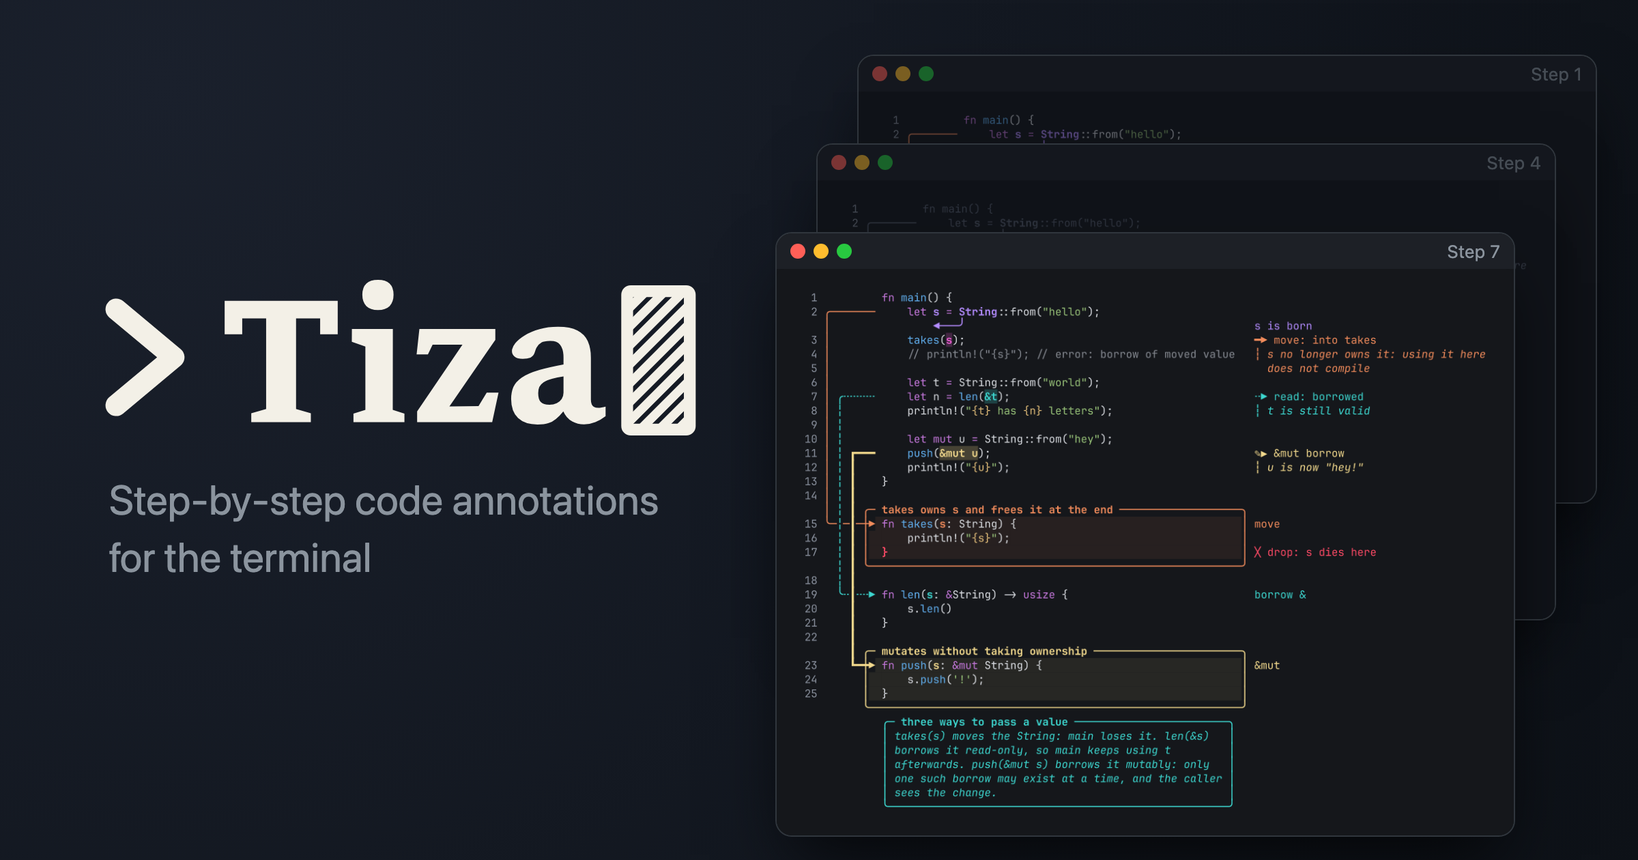
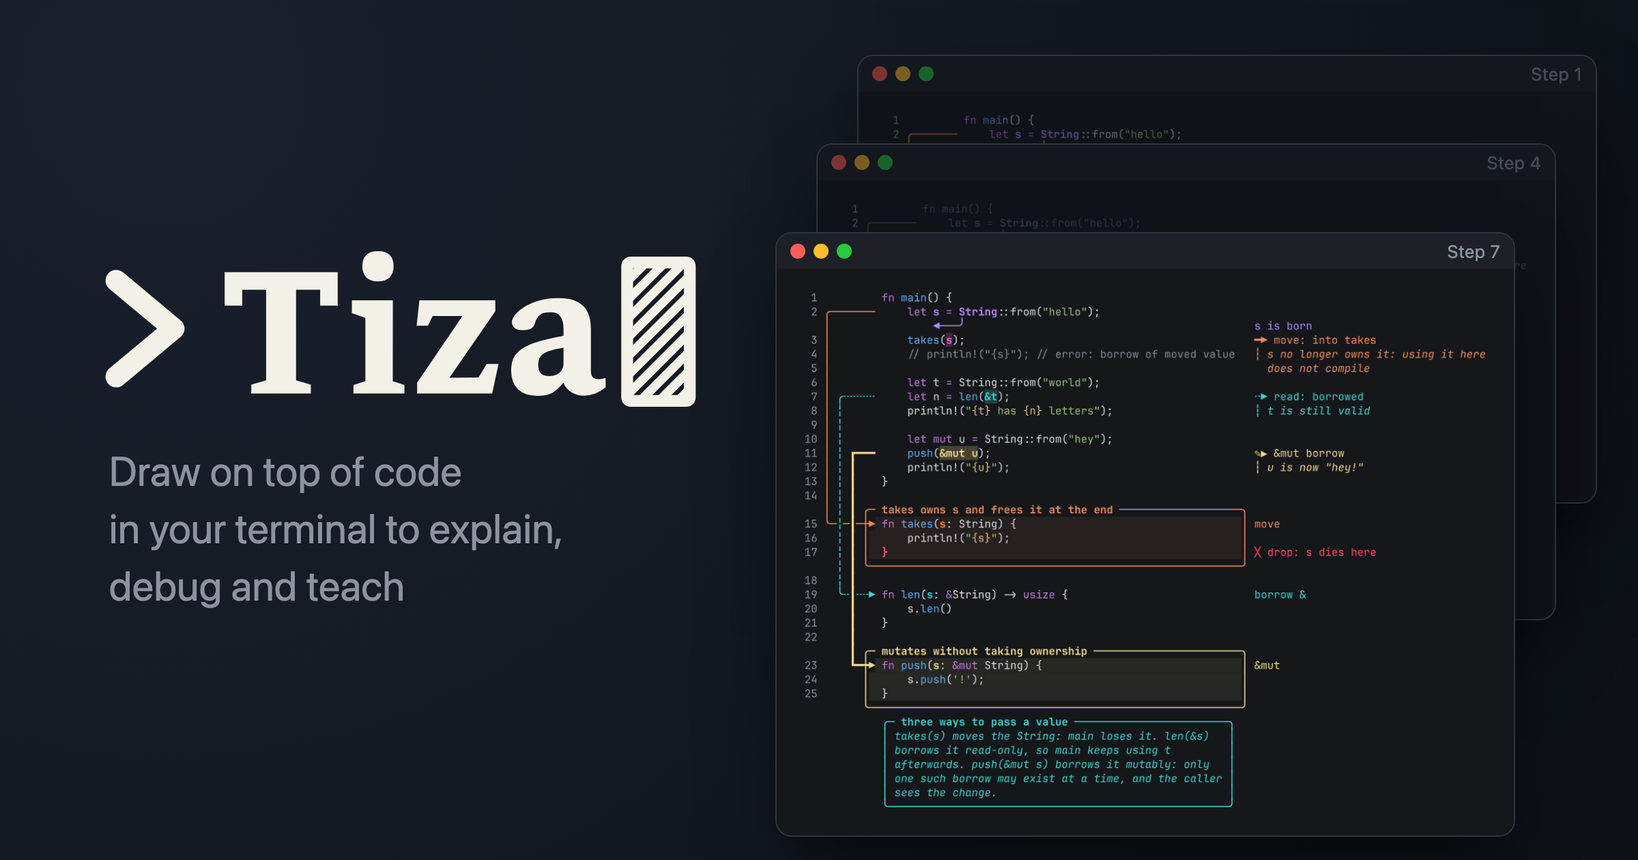
Write a short README and a new hero sentence (t-250)
The README now answers what Tiza is, who it is for, how to install it
and the first command on its first screen. It has 139 lines, 694 words
of prose and 8 H2 sections. The quick start needs no clone: the reader
copies a small Rust file, types four `:` commands and exports a GIF.
The block was run as written in a pty with tiza 0.1.0: two steps,
three annotations on the intended text, a clean exit and a 3-frame
GIF. "Where to go next" links each page by reader intent, with absolute
URLs, so the links also work in the release archive. Agents, privacy,
feedback and the license keep a short section each. The license text
is unchanged.

The hero takes the positioning sentence. scripts/readme-images.sh
regenerated it; the GIF, the PNGs and the text block came out
byte-identical. The alt text of the README and of the crate README says
the same sentence. The crate README links the new reference pages.

Editor fixes on the new pages: clearer H1s for the recording checks
and the exports, a correct intro for the agent setup page, and the
install-from-main command on the install page. The writing guide now
points to the full test rule in AGENTS.md.

The release scripts name docs/contributing/releasing.md instead of the
README in one message and one comment.

QA tests: the owner's rule drops three more prose pins: the old hero
title in hero.html, the Ctrl-C row of the keys page (the test keeps the
real help in a pty) and the README check for the hero on line 1 and no
[…]

Changed region(s): [[0.0625, 0.2786, 0.4375, 0.5262], [0.0625, 0.5262, 0.4062, 0.7119], [0.1562, 0.4333, 0.1875, 0.4952]]

diff --git a/docs/img/src/hero.html b/docs/img/src/hero.html
@@ -86,7 +86,7 @@
 <body>
   <div class="brand">
     <svg class="logo" viewBox="276 106 656 182" role="img" aria-label="Tiza"><path d="M292.6,144.2 L355.5,196.6 L292.6,249.1" fill="none" stroke="#f3f0e7" stroke-width="23.4" stroke-linecap="round" stroke-linejoin="round"/><path d="M534.5435845000001 134.8775V171.4525H515.3535845V154.0675H489.03858450000007V253.0575L505.18858450000005 257.8075V267.4975H440.11358450000006V257.8075L456.35858450000006 253.0575V154.0675H430.23358450000006V171.4525H411.04358450000007V134.8775ZM578.5285845000001 144.9475Q570.1685845000001 144.9475 565.7985845000001 140.6725Q561.4285845 136.3025 561.4285845 128.3225Q561.4285845 120.3425 565.7985845000001 116.1625Q570.1685845000001 112.07749999999999 578.5285845000001 112.07749999999999Q586.8885845000001 112.07749999999999 591.2585845000001 116.1625Q595.5335845000001 120.3425 595.5335845000001 128.3225Q595.5335845000001 136.3025 591.2585845000001 140.6725Q586.8885845000001 144.9475 578.5285845000001 144.9475ZM594.7735845000001 165.7525 594.6785845 254.1025 607.4085845000001 258.1875V267.4975H551.7385845000001V258.1875L564.7535845000001 254.1025V184.9425L549.9335845 179.7175L550.0285845000001 165.7525ZM621.2785845000001 267.4975V255.6225L670.7735845000001 182.85250000000002H638.1885845L633.0585845 193.4925H620.7085845L623.7485845000001 165.7525H631.1585845000001H637.3335845H706.6835845V177.5325L656.5235845000001 250.3025L688.3485845 250.0175L697.2785845000001 235.1975H710.1985845L703.2635845000001 267.4975ZM781.1635845000001 217.4325Q774.1335845000001 218.5725 769.1935845000002 219.9025Q762.6385845000001 221.7075 759.2660845 223.94Q755.8935845000001 226.1725 754.7060845000001 229.0225Q753.5185845000001 231.8725 753.5185845000001 235.6725Q753.5185845000001 242.4175 756.3685845000001 245.45749999999998Q759.2185845000001 248.4975 765.7735845000001 248.4975Q770.2385845000001 248.4975 773.7535845000001 246.835Q777.2685845000001 245.1725 779.2160845000001 242.1325Q781.1635845000001 239.0925 781.1635845000001 235.1975ZM780.9735845000001 255.7175Q772.7085845000001 266.0725 765.0135845000001 268.4475Q759.9785845000001 270.0625 752.8535845000001 270.0625Q739.1735845000001 270.0625 731.5735845000002 263.0325Q723.9735845000001 256.0025 723.9735845000001 242.1325Q723.9735845000001 234.8175 726.3960845000001 229.1175Q728.8185845000002 223.41750000000002 735.5160845000001 218.76250000000002Q742.2135845000001 214.10750000000002 754.8485845000001 210.4025Q765.3935845000001 207.3625 781.1635845000001 204.5125V196.8175Q781.1635845000001 187.4125 777.3635845000001 182.7575Q773.8485845000001 178.48250000000002 766.1535845000001 178.76749999999998Q759.7885845000001 179.0525 757.4135845000001 180.2875Q753.8035845000002 182.2825 751.6185845000001 186.1775Q751.0485845000001 187.2225 749.6235845000001 191.6875Q748.3885845000001 195.4875 745.0635845000002 196.91250000000002Q741.8335845000001 198.2425 736.6085845000001 198.2425Q730.7185845000001 198.2425 727.7735845000002 195.8675Q724.8285845000001 193.4925 724.8285845000001 189.7875Q724.8285845000001 185.7025 728.5335845000002 181.14249999999998Q732.2385845000001 176.58249999999998 739.0310845000001 172.4975Q745.8235845000002 168.4125 754.9910845000002 165.8475Q764.1585845000001 163.2825 775.1785845000002 163.2825Q788.5735845000002 163.2825 796.4110845000001 167.32Q804.2485845000001 171.35750000000002 807.6685845000002 178.91000000000003Q811.0885845000001 186.4625 811.0885845000001 196.91250000000002V242.8925Q811.0885845000001 246.2175 811.9910845000002 248.1175Q812.8935845000001 250.0175 814.6035845000001 250.92000000000002Q816.3135845000002 251.8225 819.0685845000002 251.8225Q820.7785845000001 251.8225 822.7735845000001 251.4425Q824.7685845000001 251.0625 827.1435845000001 250.3975V260.9425Q821.9185845000001 265.0275 815.8385845 267.45Q809.7585845000001 269.8725 803.5835845000001 269.8725Q796.4585845000001 269.8725 790.7585845000001 266.7375Q784.2035845000001 263.2225 780.9735845000001 255.7175Z" fill="#f3f0e7"/><clipPath id="clD"><rect x="850.7" y="124.4" width="68.4" height="151.2"/></clipPath><g clip-path="url(#clD)" stroke="#f3f0e7" stroke-width="9.7" stroke-linecap="round"><line x1="699.5" y1="275.6" x2="850.7" y2="124.4"/><line x1="720.2" y1="275.6" x2="871.4" y2="124.4"/><line x1="740.9" y1="275.6" x2="892.0" y2="124.4"/><line x1="761.5" y1="275.6" x2="912.7" y2="124.4"/><line x1="782.2" y1="275.6" x2="933.4" y2="124.4"/><line x1="802.9" y1="275.6" x2="954.1" y2="124.4"/><line x1="823.5" y1="275.6" x2="974.7" y2="124.4"/><line x1="844.2" y1="275.6" x2="995.4" y2="124.4"/><line x1="864.9" y1="275.6" x2="1016.1" y2="124.4"/><line x1="885.6" y1="275.6" x2="1036.8" y2="124.4"/><line x1="906.2" y1="275.6" x2="1057.4" y2="124.4"/><line x1="926.9" y1="275.6" x2="1078.1" y2="124.4"/><line x1="947.6" y1="275.6" x2="1098.8" y2="124.4"/><line x1="968.2" y1="275.6" x2="1119.4" y2="124.4"/><line x1="988.9" y1="275.6" x2="1140.1" y2="124.4"/><line x1="1009.6" y1="275.6" x2="1160.8" y2="124.4"/><line x1="1030.3" y1="275.6" x2="1181.5" y2="124.4"/><line x1="1050.9" y1="275.6" x2="1202.1" y2="124.4"/></g><rect x="850.7" y="124.4" width="68.4" height="151.2" rx="3.9" fill="none" stroke="#f3f0e7" stroke-width="12.9"/></svg>
-    <p>Step-by-step code annotations<br>for the terminal</p>
+    <p>Draw on top of code<br>in your terminal to explain,<br>debug and teach</p>
   </div>
   <div class="win z1 dim">
     <div class="bar"><span class="dot r"></span><span class="dot y"></span><span class="dot g"></span><span class="label">Step 1</span></div>

diff --git a/qa/tests/t-152.rs b/qa/tests/t-152.rs
@@ -1311,19 +1311,7 @@ const BRAND: [&str; 5] = [
 ];
 
 #[test]
-fn brand_the_readme_shows_the_logo_and_the_files_stay_out_of_the_packages() {
-    // The README starts with the hero, which carries the logo: a separate
-    // logo above it showed the mark twice (Luis, 2026-10-24).
-    let readme = read("README.md");
-    let first = readme.lines().next().unwrap();
-    assert!(
-        first.starts_with("![Tiza: ") && first.ends_with("](docs/img/hero.png)"),
-        "{first}"
-    );
-    assert!(
-        !readme.contains("docs/brand/logo.svg") && !readme.contains("docs/brand/logo.png"),
-        "a separate logo in the README"
-    );
+fn brand_the_files_stay_out_of_the_packages() {
     let about = read("docs/brand/README.md");
     for f in BRAND {
         assert!(root().join("docs/brand").join(f).is_file(), "{f}");

diff --git a/qa/tests/t-197.rs b/qa/tests/t-197.rs
@@ -888,12 +888,7 @@ fn corner_two_ctrl_c_sent_at_once_cancel_then_quit() {
 // ---------------------------------------------------------------- AC6
 
 #[test]
-fn ac6_the_readme_and_the_help_say_ctrl_c_cancels_or_quits() {
-    let keys = include_str!("../../docs/reference/keys.md");
-    assert!(
-        keys.contains("| `Ctrl-C` | cancels, or quits"),
-        "the keys table has a Ctrl-C row"
-    );
+fn ac6_the_help_says_ctrl_c_cancels_or_quits() {
     let dir = scratch("t197-help");
     let doc = tiza_core::Document::from_code(CODE, "rs", None);
     let live = tiza_qa::Live::open(doc, dir.join("main.rs.tiza"), dir.join("s.sock"));

diff --git a/qa/tests/t-121.rs b/qa/tests/t-121.rs
@@ -275,7 +275,6 @@ fn ac6_ac7_the_hero_is_built_from_real_frames_with_the_logo_for_the_title() {
     assert!(!html.contains(background));
     assert!(html.contains("aria-label=\"Tiza\""));
     assert!(!html.contains("<h1>TIZA</h1>") && !html.contains("@font-face"));
-    assert!(html.contains("Step-by-step code annotations<br>for the terminal"));
     // The frames are the committed renders, with English alt text, and the
     // back windows dimmed by an overlay, not by opacity.
     for s in ["1", "4", "7"] {

diff --git a/README.md b/README.md
@@ -1,18 +1,73 @@
-![Tiza: step-by-step code annotations for the terminal. Three real frames of the Rust ownership example, steps 1, 4 and 7](docs/img/hero.png)
+![Tiza: draw on top of code in your terminal to explain, debug and teach. Three real Tiza frames of the ownership example: steps 1, 4 and 7](docs/img/hero.png)
 
 **Draw on top of code in your terminal to explain, debug and teach.**
 
-Tiza is an interactive terminal tool for visual annotations on code. Use it to give a walkthrough, to present on screen, to record a video or to work through a bug with an LLM. AI agents can draw on the same code through MCP.
+Tiza shows your code in the terminal. You draw boxes, arrows, highlights and notes on the code, and you show them step by step.
 
-Send code to Tiza from your editor. Then draw on it, highlight what is important and go through it step by step.
+Use Tiza to explain code to a person or to an AI agent. Examples are a code walkthrough, a lesson, a pull request review, a debug session with an AI agent and a video. AI agents can also draw on the same code through MCP (the Model Context Protocol).
 
-The annotations are boxes, arrows, highlights, notes and semantic marks such as *warn*, *read*, *write*, *move* or *drop*, plus any style you define, emoji included. Annotations are anchored to the code text, not to screen cells, so they survive scrolling, resizing and theme changes.
+The annotations follow the code text. They keep their place when you scroll, resize the terminal or change the theme.
 
-It is also **for agents**: it exposes a local socket API and an **MCP server**, so Claude Code (or any MCP client) can draw live on what you are showing.
+> Status: **v0.1.0**, early. The document format and the API can change before 1.0.
+
+## Installation
+
+On macOS, and on Linux x86_64 with glibc 2.35 or later, run this command to install the latest release:
+
+```sh
+curl -fsSL https://raw.githubusercontent.com/luiscarlosjayk/tiza/main/install.sh | sh
+```
+
+The script checks the SHA-256 checksum of the download. Then it puts `tiza` in `~/.local/bin`. It does not use `sudo`. If `~/.local/bin` is not in your `PATH`, the script shows the line to add. For the options of the script, the archives and the macOS download, read [Install Tiza](https://github.com/luiscarlosjayk/tiza/blob/main/docs/guides/install.md).
+
+With Rust 1.88 or later, you can also install from crates.io:
+
+```sh
+cargo install tiza
+```
+
+## Quick start
+
+Copy this block into your terminal. It writes a small Rust file and opens it in Tiza:
+
+```sh
+cat > hello.rs <<'EOF'
+fn main() {
+    let s = String::from("hello");
+    takes(s);
+}
+
+fn takes(s: String) {
+    println!("{s}");
+}
+EOF
+tiza hello.rs
+```
+
+In Tiza, type each of these commands and press Enter:
+
+```text
+:note 2 s is born
+:arrow 2:s 6:s: move
+:step 2
+:box 6-8 takes owns s
+```
+
+Tiza opens the file at step 1, so the note and the arrow are on step 1. `:step 2` goes to step 2. The box is on step 2. Press `p` and `n` to go back and forward through the steps. Press `P` for presentation mode, which hides the status bar. Press `q` to quit.
+
+Tiza saves the annotations in `hello.rs.tiza`, next to the code. To export all the steps as an animated GIF, run this command:
+
+```sh
+tiza render hello.rs.tiza --out hello.gif
+```
+
+To open your own code, run `tiza path/to/file`. On macOS, `pbpaste | tiza` opens the code on your clipboard.
+
+## What it looks like
+
+This GIF and this text block are real Tiza exports of [the ownership example](examples/ownership.rs.tiza).
 
 ![Tiza explaining Rust ownership step by step](docs/img/ownership.gif)
-
-> Status: **v0.1.0**, early: the document format and the API may still change before 1.0. Inspired by [Excalidraw](https://excalidraw.com), [excalidraw/cli](https://github.com/excalidraw/cli), [herdr](https://herdr.dev), [tuios](https://github.com/Gaurav-Gosain/tuios) and [Demo Time](https://demotime.show).
 
 <!-- readme-images:ownership-txt -->
 ```
@@ -39,44 +94,35 @@ It is also **for agents**: it exposes a local socket API and an **MCP server**, 
 ```
 <!-- /readme-images:ownership-txt -->
 
-Every image in this README is made by Tiza itself, with no screen recording: `scripts/readme-images.sh` renders the GIF at the top (the native `.gif` export), this step-7 PNG, the text block under the GIF and the three real `--step` frames of the hero image (`docs/img/src/hero.html`, screenshotted by a headless Chrome or Chromium — a docs-only tool, skipped with a message when none is installed), all from `examples/ownership.rs.tiza` at `--width 108`. Running it twice gives the same bytes.
+Every image on this page is a real Tiza export. `scripts/readme-images.sh` makes them from `examples/ownership.rs.tiza`.
 
-## Installation
+## Where to go next
 
-Tiza is written in Rust with [ratatui](https://ratatui.rs).
+- **Use Tiza:** [keys](https://github.com/luiscarlosjayk/tiza/blob/main/docs/reference/keys.md), [`:` commands](https://github.com/luiscarlosjayk/tiza/blob/main/docs/reference/commands.md), [command line](https://github.com/luiscarlosjayk/tiza/blob/main/docs/reference/cli.md), [document format](https://github.com/luiscarlosjayk/tiza/blob/main/docs/reference/document-format.md), [saving](https://github.com/luiscarlosjayk/tiza/blob/main/docs/concepts/saving.md), [themes](https://github.com/luiscarlosjayk/tiza/blob/main/docs/reference/themes.md), [terminal support](https://github.com/luiscarlosjayk/tiza/blob/main/docs/reference/terminals.md).
+- **Present and record:** [follow the editor](https://github.com/luiscarlosjayk/tiza/blob/main/docs/guides/follow-the-editor.md), [Tiza in Zed](https://github.com/luiscarlosjayk/tiza/blob/main/docs/zed.md), [the mouse](https://github.com/luiscarlosjayk/tiza/blob/main/docs/guides/present.md), [check before you record](https://github.com/luiscarlosjayk/tiza/blob/main/docs/guides/check-before-you-record.md), [export to PNG, SVG, GIF, MP4 or text](https://github.com/luiscarlosjayk/tiza/blob/main/docs/reference/exports.md).
+- **Connect an agent:** [setup](https://github.com/luiscarlosjayk/tiza/blob/main/docs/agents/setup.md), [MCP tools](https://github.com/luiscarlosjayk/tiza/blob/main/docs/reference/mcp-tools.md), [agent guide](https://github.com/luiscarlosjayk/tiza/blob/main/docs/agent-guide.md), [supervised mode](https://github.com/luiscarlosjayk/tiza/blob/main/docs/agents/supervised-mode.md), [socket API](https://github.com/luiscarlosjayk/tiza/blob/main/docs/reference/socket-api.md), [demo scenarios](https://github.com/luiscarlosjayk/tiza/blob/main/docs/demos/scenarios.md).
+- **Examples:** [the bundled demos](examples/README.md).
+- **Contribute:** [CONTRIBUTING.md](CONTRIBUTING.md), [development](https://github.com/luiscarlosjayk/tiza/blob/main/docs/contributing/development.md), [releases](https://github.com/luiscarlosjayk/tiza/blob/main/docs/contributing/releasing.md), [writing the docs](https://github.com/luiscarlosjayk/tiza/blob/main/docs/contributing/writing-docs.md), [design decisions](https://github.com/luiscarlosjayk/tiza/tree/main/docs/adr).
 
-On macOS and Linux, run this command to install the latest release:
+## For agents
 
-```sh
-curl -fsSL https://raw.githubusercontent.com/luiscarlosjayk/tiza/main/install.sh | sh
-```
-
-The script downloads the archive for your system from [Releases](https://github.com/luiscarlosjayk/tiza/releases) and checks its SHA-256 checksum. Then it puts `tiza` in `~/.local/bin`. It does not use `sudo`. If that folder is not in your `PATH`, the script shows the line to add.
-
-**From source:** with Rust 1.88 or later, install from crates.io or from `main` of the repository:
+Tiza has an MCP server. Claude Code or another MCP client can use it to draw on the code that you show. Add the server to Claude Code one time:
 
 ```sh
-cargo install tiza
-cargo install --git https://github.com/luiscarlosjayk/tiza tiza
+claude mcp add tiza -- tiza mcp
 ```
 
-## Quick start
+Then open your code in Tiza, and ask the agent to explain it. For another MCP client, use this configuration:
 
-Try the bundled demos (see [examples/README.md](examples/README.md)): `tiza examples/ownership.rs.tiza` starts with the bare code; advance with `n`.
+```json
+{ "mcpServers": { "tiza": { "command": "tiza", "args": ["mcp"] } } }
+```
 
-## Documentation
+The same API is also on a local Unix socket and on the command line. Read [Connect an agent](https://github.com/luiscarlosjayk/tiza/blob/main/docs/agents/setup.md) for the details.
 
-- Install: [other ways to install and update](docs/guides/install.md)
-- Use: [command line](docs/reference/cli.md), [keys](docs/reference/keys.md), [`:` commands](docs/reference/commands.md), [document format](docs/reference/document-format.md), [saving](docs/concepts/saving.md)
-- Present: [follow the editor](docs/guides/follow-the-editor.md), [mouse](docs/guides/present.md), [check before you record](docs/guides/check-before-you-record.md), [exports](docs/reference/exports.md)
-- Terminals and colors: [terminal support](docs/reference/terminals.md), [themes](docs/reference/themes.md)
-- Agents: [connect an agent](docs/agents/setup.md), [MCP tools](docs/reference/mcp-tools.md), [supervised mode](docs/agents/supervised-mode.md), [socket API](docs/reference/socket-api.md), [agent guide](docs/agent-guide.md)
-- Privacy: [what Tiza reads and writes](docs/concepts/privacy-and-network.md)
-- Contribute: [development](docs/contributing/development.md), [releases](docs/contributing/releasing.md)
+## What Tiza reads and writes
 
-## Zed integration
-
-A task that sends the current selection to Tiza in the integrated terminal: [docs/zed.md](docs/zed.md).
+The `tiza` binary has no network dependencies and never opens a network connection. It reads the files that you name. It writes the `.tiza` file next to them and the exports that you ask for. Agents connect through a local Unix socket, never through TCP. There is no telemetry and no update check. [What Tiza reads and writes](https://github.com/luiscarlosjayk/tiza/blob/main/docs/concepts/privacy-and-network.md) gives the full list.
 
 ## Feedback and bugs
 
@@ -87,5 +133,7 @@ Report a bug that you can reproduce with the [bug report form](https://github.co
 MIT or Apache-2.0, at your option. See [LICENSE-MIT](LICENSE-MIT) and [LICENSE-APACHE](LICENSE-APACHE).
 
 Unless you explicitly state otherwise, any contribution intentionally submitted for inclusion in Tiza by you, as defined in the Apache-2.0 license, shall be dual licensed as above, without any additional terms or conditions.
+
+Inspired by [Excalidraw](https://excalidraw.com), [excalidraw/cli](https://github.com/excalidraw/cli), [herdr](https://herdr.dev), [tuios](https://github.com/Gaurav-Gosain/tuios) and [Demo Time](https://demotime.show).
 
 Made by [Luis Carlos Osorio Jayk](https://github.com/luiscarlosjayk) (LuisK) · [LinkedIn](https://www.linkedin.com/in/luiscarlososoriojayk) · [YouTube](https://www.youtube.com/@luiskdev).

diff --git a/crates/tiza-cli/README.md b/crates/tiza-cli/README.md
@@ -1,6 +1,6 @@
 # ╭─ Tiza ─▶
 
-![Tiza: step-by-step code annotations for the terminal. Three real frames of the Rust ownership example, steps 1, 4 and 7](https://raw.githubusercontent.com/luiscarlosjayk/tiza/main/docs/img/hero.png)
+![Tiza: draw on top of code in your terminal to explain, debug and teach. Three real Tiza frames of the ownership example: steps 1, 4 and 7](https://raw.githubusercontent.com/luiscarlosjayk/tiza/main/docs/img/hero.png)
 
 **Draw on top of code in your terminal to explain, debug and teach.**
 
@@ -31,7 +31,7 @@ tiza src/main.rs --follow   # reload when the file is saved in the editor
 pbpaste | tiza              # code from the clipboard (macOS); --lang rs when it cannot be guessed
 ```
 
-Keys, `:` commands, exports, the MCP tools and the `.tiza` format are documented in the [full README](https://github.com/luiscarlosjayk/tiza#readme) and the [agent guide](https://github.com/luiscarlosjayk/tiza/blob/main/docs/agent-guide.md); the demos are in [examples/](https://github.com/luiscarlosjayk/tiza/tree/main/examples).
+Read the [keys](https://github.com/luiscarlosjayk/tiza/blob/main/docs/reference/keys.md), the [`:` commands](https://github.com/luiscarlosjayk/tiza/blob/main/docs/reference/commands.md), the [exports](https://github.com/luiscarlosjayk/tiza/blob/main/docs/reference/exports.md), the [MCP tools](https://github.com/luiscarlosjayk/tiza/blob/main/docs/reference/mcp-tools.md) and the [`.tiza` format](https://github.com/luiscarlosjayk/tiza/blob/main/docs/reference/document-format.md). The [README](https://github.com/luiscarlosjayk/tiza#readme) links to the user pages. The [agent guide](https://github.com/luiscarlosjayk/tiza/blob/main/docs/agent-guide.md) is for AI agents. The demos are in [examples/](https://github.com/luiscarlosjayk/tiza/tree/main/examples).
 
 The other `tiza-*` crates are internal: published only so that `cargo install tiza` works, with no stable API.
 

diff --git a/docs/contributing/writing-docs.md b/docs/contributing/writing-docs.md
@@ -112,7 +112,7 @@ Write all public text in English, in ASD-STE100 Simplified Technical English. Ch
 - A commit that changes behavior also changes its page. The structure note has the change-to-page map.
 - Run every command that you write against the built binary. List the commands in the commit message.
 - Check every claim against the code or a test. Never write a flag, a key or a number from memory.
-- QA tests check behavior, contracts with scripts, generated images and links. They never check the prose of a doc.
+- QA tests check behavior, contracts with scripts, generated images, links and repo policies. A test can compare a doc with the code. A test never checks the prose of a doc. [AGENTS.md](https://github.com/luiscarlosjayk/tiza/blob/main/AGENTS.md) gives the full rule.
 - Before you move text, find the tests that read it: an anchor, a link or a line that a script writes. Change them in the same commit. A change to what a test checks needs the owner.
 - Move text verbatim in one commit and edit it in the next. Then `git log --follow` and the review stay simple.
 - Text that you edit changes to this style. Do not change other text in the same commit.

diff --git a/docs/demos/scenarios.md b/docs/demos/scenarios.md
@@ -162,7 +162,7 @@ tiza render /tmp/tally/src/main.rs.tiza --all-steps --width 130 --out tally-tour
 
 **Features:** follow mode and re-anchoring, `set_follow`, `follow.status` (`reloads`, `last_reload`), `list_annotations`, `u` to undo a reload.
 
-**Recording:** a screen recording, 3-5 min; the editor at 50 % and Tiza at 50 % ([Recommended recording profile](../guides/check-before-you-record.md)).
+**Recording:** a screen recording, 3-5 min; the editor at 50 % and Tiza at 50 % ([Check before you record](../guides/check-before-you-record.md)).
 
 ## 8. Supervised session: the agent proposes, you approve on camera
 

diff --git a/docs/guides/install.md b/docs/guides/install.md
@@ -8,6 +8,12 @@ Two environment variables change the install. `TIZA_VERSION` sets the release, f
 curl -fsSL https://raw.githubusercontent.com/luiscarlosjayk/tiza/main/install.sh | TIZA_VERSION=v0.1.0 TIZA_INSTALL_DIR="$HOME/bin" sh
 ```
 
+To install from `main` of the repository, use Rust 1.88 or later:
+
+```sh
+cargo install --git https://github.com/luiscarlosjayk/tiza tiza
+```
+
 To read the script before you run it, download it first:
 
 ```sh

diff --git a/docs/reference/cli.md b/docs/reference/cli.md
@@ -1,6 +1,6 @@
 # Command line
 
-These commands open code in Tiza. The last paragraph tells how Tiza finds the language of the code.
+These commands open code in Tiza. The paragraph after them tells how Tiza finds the language of the code.
 
 ```sh
 tiza src/main.rs            # open a file

diff --git a/docs/agents/setup.md b/docs/agents/setup.md
@@ -1,6 +1,6 @@
 # Connect an agent
 
-Start the MCP server and add it to your MCP client.
+Add the Tiza MCP server to your MCP client. The client starts `tiza mcp`.
 
 With the TUI open, start the MCP server in another process:
 

diff --git a/docs/reference/exports.md b/docs/reference/exports.md
@@ -1,4 +1,4 @@
-# Export to text, Markdown, ANSI, SVG, PNG, GIF, MP4, asciicast or VHS
+# Exports
 
 Use `tiza render` to export a step or all the steps.
 
